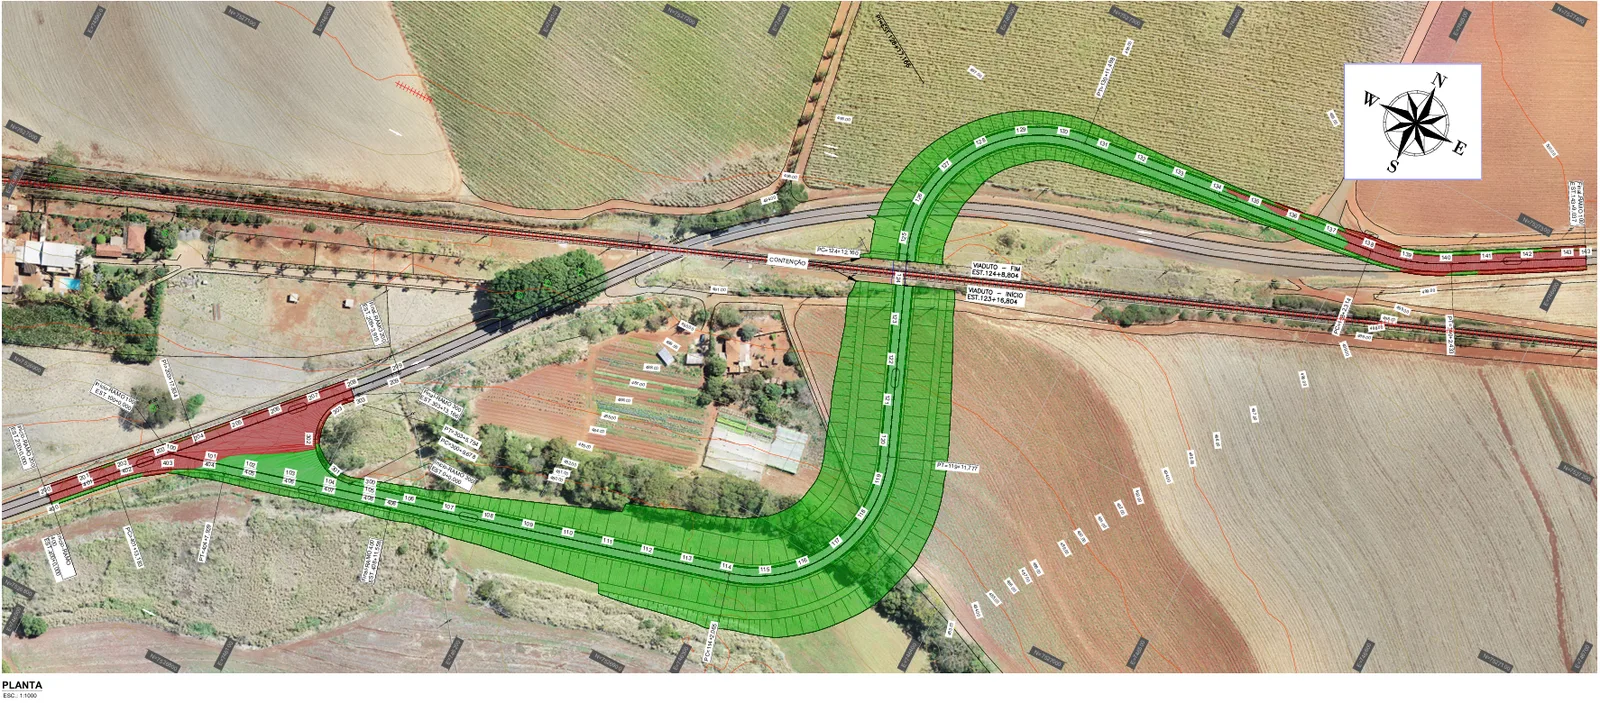
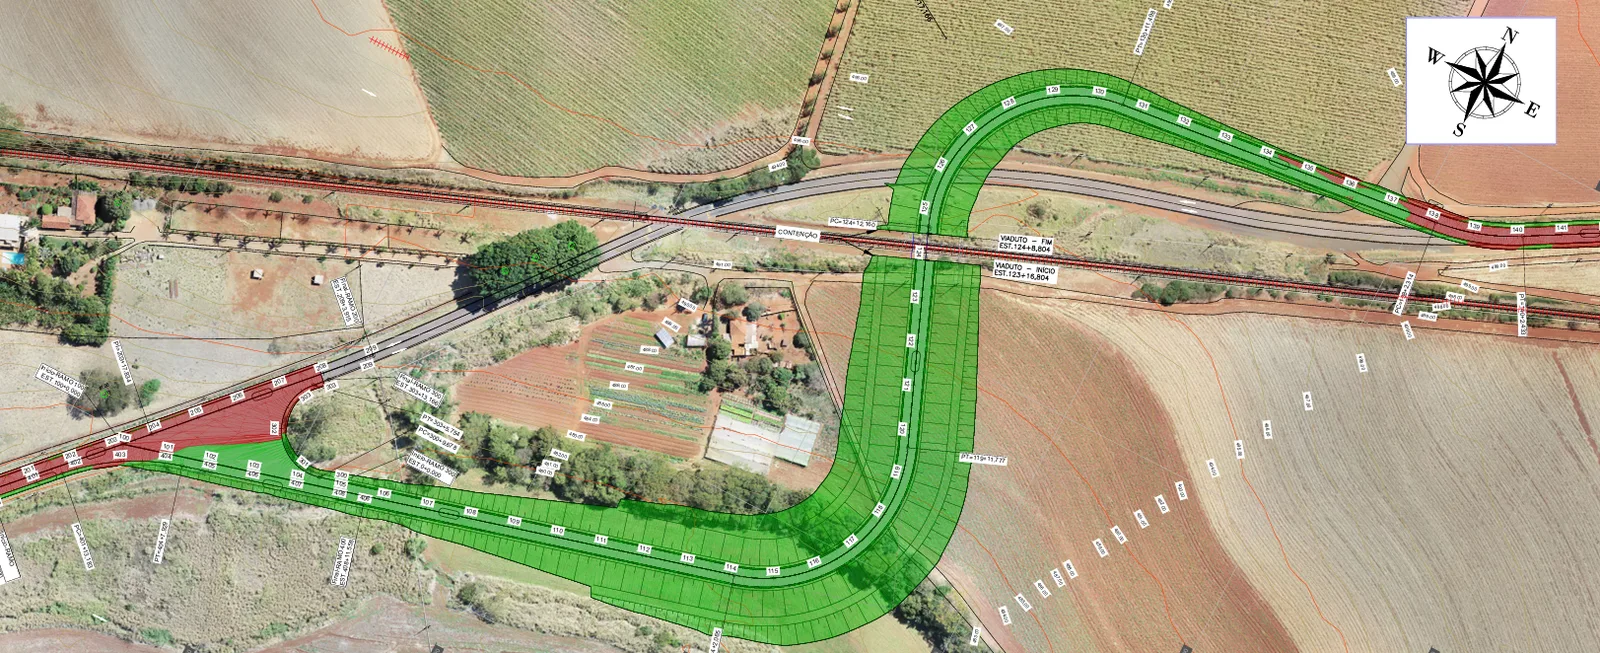
Trocar imagem do projeto de terraplenagem
Claude-Session: https://claude.ai/code/session_01NM7aCnNkHAb9U8nFxn8y4W

diff --git a/index.html b/index.html
@@ -273,8 +273,8 @@ footer .wrap { display: flex; flex-wrap: wrap; justify-content: space-between; g
       </div>
       <div class="proj-grid">
         <article class="proj">
-          <a href="img/proj-terraplenagem.webp" target="_blank" rel="noopener"><img src="img/proj-terraplenagem.webp" alt="Planta do projeto de terraplenagem de acesso viário com viaduto sobre ferrovia" width="1600" height="703" loading="lazy"></a>
-          <div class="body"><h3>Acesso viário em desnível com viaduto</h3><p class="meta">Terraplenagem · planta esc. 1:1000</p><p>Terraplenagem dos ramos de acesso e da transposição da ferrovia por viaduto, com definição de cortes, aterros e taludes ao longo do traçado.</p></div>
+          <a href="img/proj-terraplenagem.webp" target="_blank" rel="noopener"><img src="img/proj-terraplenagem.webp" alt="Planta do projeto de terraplenagem de acesso viário com viaduto sobre ferrovia" width="1600" height="653" loading="lazy"></a>
+          <div class="body"><h3>Acesso viário em desnível com viaduto</h3><p class="meta">Terraplenagem</p><p>Terraplenagem dos ramos de acesso e da transposição da ferrovia por viaduto, com definição de cortes, aterros e taludes ao longo do traçado.</p></div>
         </article>
       </div>
     </div>
